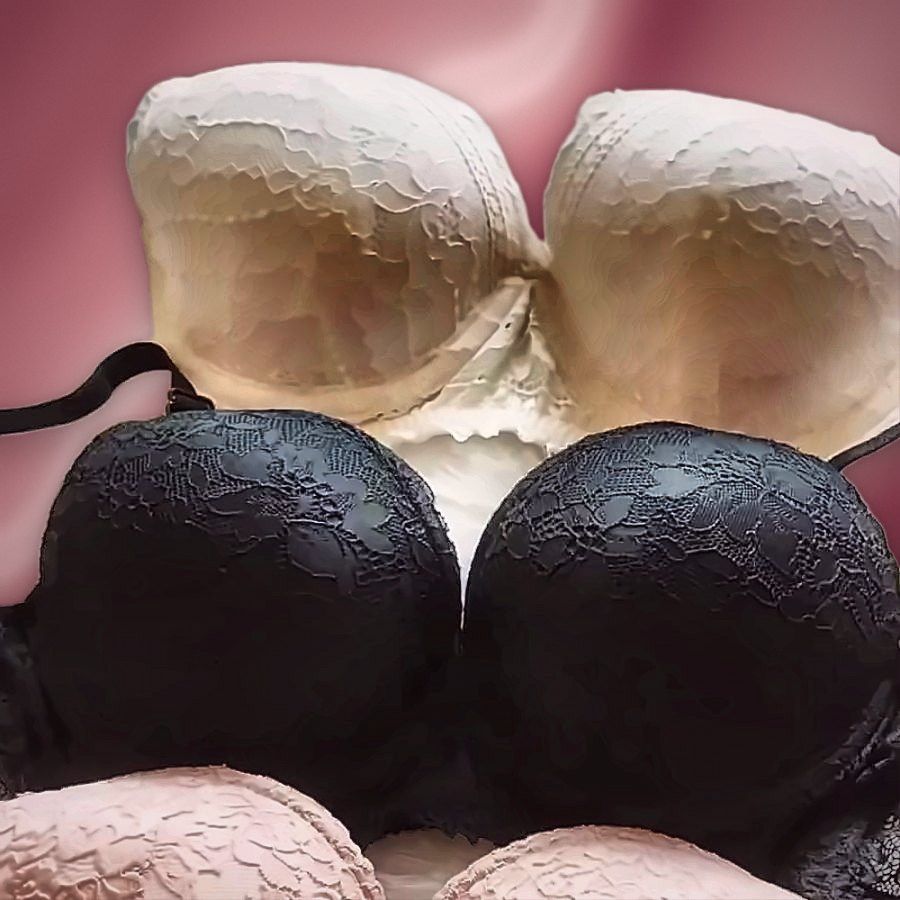
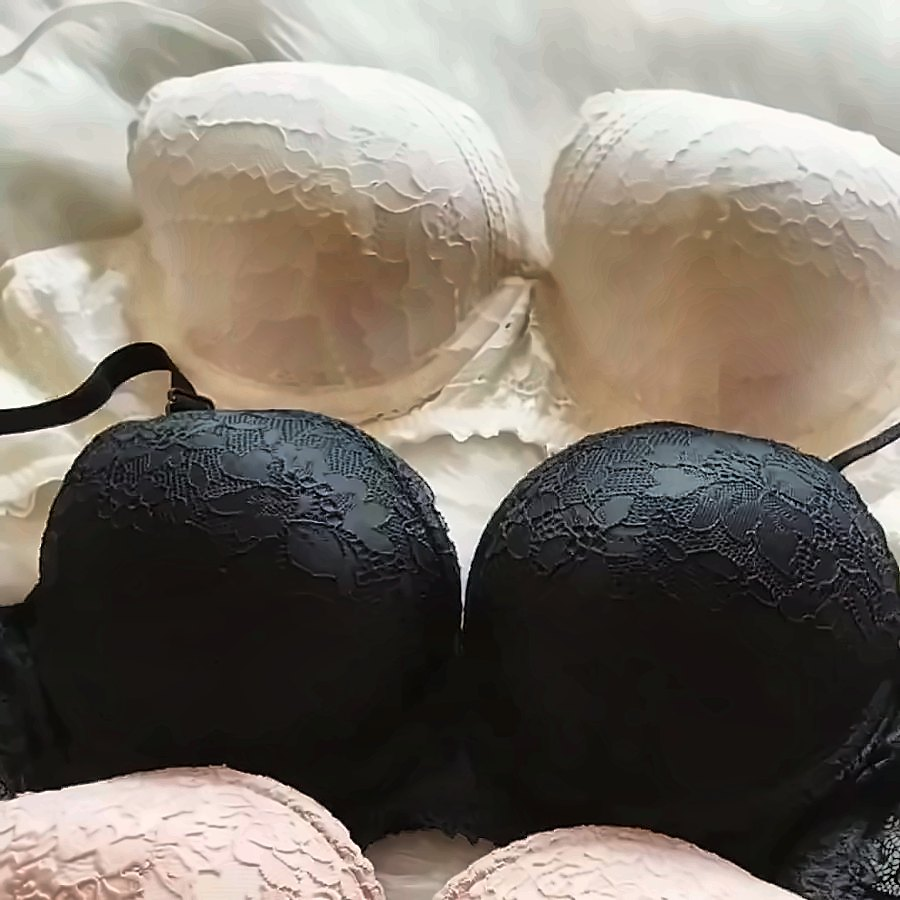
Bring back the previous product photos
Claude-Session: https://claude.ai/code/session_018nnZ8hCmtC9hFjR9LaUMhP

diff --git a/assets/js/config.js b/assets/js/config.js
@@ -86,7 +86,7 @@ window.CATEGORIES = [
 window.PRODUCTS = [
   {
     id: "bra-seamless", cat: "bra", featured: true, badge: "hot",
-    images: ["images/fb-seamless-bra.jpg"],
+    images: ["images/fb-seamless-bra.jpg", "images/seamless-bra.jpg"],
     name: { bn: "চায়না সিমলেস ব্রা", en: "China Seamless Bra" },
     desc: { bn: "ওয়্যার ছাড়া নরম সিমলেস ব্রা, সারাদিন আরামে পরা যায়। আমাদের মোস্ট ভাইরাল ব্রা।", en: "A soft, wire-free seamless bra you can wear comfortably all day. Our most viral bra." },
     note: { bn: "মোস্ট ভাইরাল • ২ পিস ১০৯৯ টাকা", en: "Most viral • 2 pieces for ৳1,099" },
@@ -99,7 +99,7 @@ window.PRODUCTS = [
   },
   {
     id: "bra-premium-lace", cat: "bra", featured: true, badge: "offer",
-    images: ["images/maroon-padded-bra.jpg"],
+    images: ["images/maroon-padded-bra.jpg", "images/fb-premium-lace-bra.jpg"],
     name: { bn: "প্রিমিয়াম লেস ব্রা", en: "Premium Lace Bra" },
     desc: { bn: "প্রিমিয়াম কোয়ালিটির লেস ব্রা। রেগুলার দাম ৫৯৯ টাকা, অফারে ৪৯৯ টাকা। স্টক সীমিত।", en: "Premium quality lace bra. Regular price ৳599, now ৳499 on offer. Limited stock." },
     note: { bn: "অফার ৩১ অক্টোবর পর্যন্ত • লিমিটেড স্টক", en: "Offer till 31 October • Limited stock" },
@@ -118,7 +118,7 @@ window.PRODUCTS = [
   },
   {
     id: "bra-padded", cat: "bra", featured: true,
-    images: ["images/fb-padded-bra.jpg", "images/fb-gorgeous-lace-bra.jpg", "images/white-black-combo.jpg"],
+    images: ["images/fb-padded-bra.jpg", "images/fb-gorgeous-lace-bra.jpg", "images/padded-combo-495.jpg", "images/white-black-combo.jpg"],
     name: { bn: "প্যাডেড লেস ব্রা", en: "Padded Lace Bra" },
     desc: { bn: "নরম কাপড়ের ফুল প্যাডেড ব্রা, উপরে সুন্দর লেসের কাজ। একসাথে ৩ পিস নিলে মাত্র ৪৯৫ টাকা।", en: "Fully padded bra in soft fabric with pretty lace on top. Take 3 pieces together for just ৳495." },
     note: { bn: "৩ পিস কম্বো ৪৯৫ টাকা", en: "3-piece combo ৳495" },
